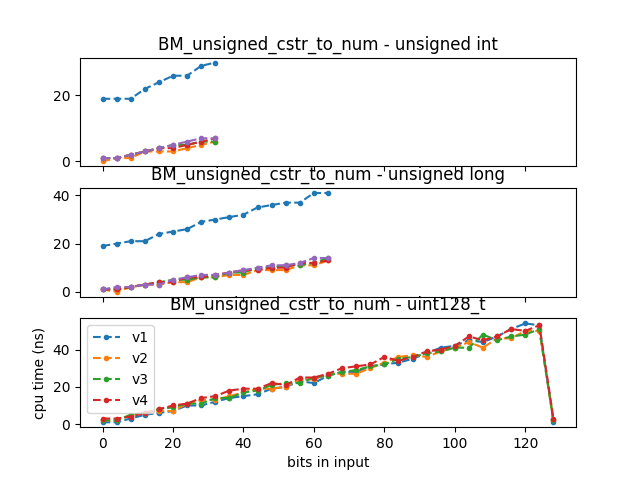
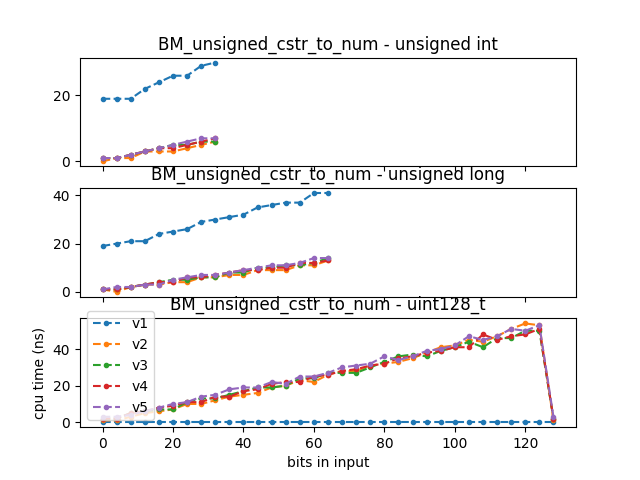
fix plot

Changed region(s): [[0.125, 0.6562, 0.875, 0.9062], [0.0625, 0.7812, 0.125, 0.8125], [0.0938, 0.875, 0.125, 0.9062]]

diff --git a/tools/plot_results.py b/tools/plot_results.py
@@ -105,7 +105,12 @@ def plot_series(data,row_count,col_count,series_count,series_title, axs):
                     x_value = int(arr[1])
                     x_values.append(x_value)
             except ValueError:
-                pass
+                # no data point but still need to add something to ensure there is a series
+                y_value = 0
+                y_values.append(y_value)
+                if len(arr)>1:
+                    x_value = int(arr[1])
+                    x_values.append(x_value)
         if len(x_values)>0 and len(y_values)>0 and len(x_values)==len(y_values):
             handle, = axs[row_count].plot(np.array(x_values), np.array(y_values), label=series_title, marker='.', linestyle='--')
 
